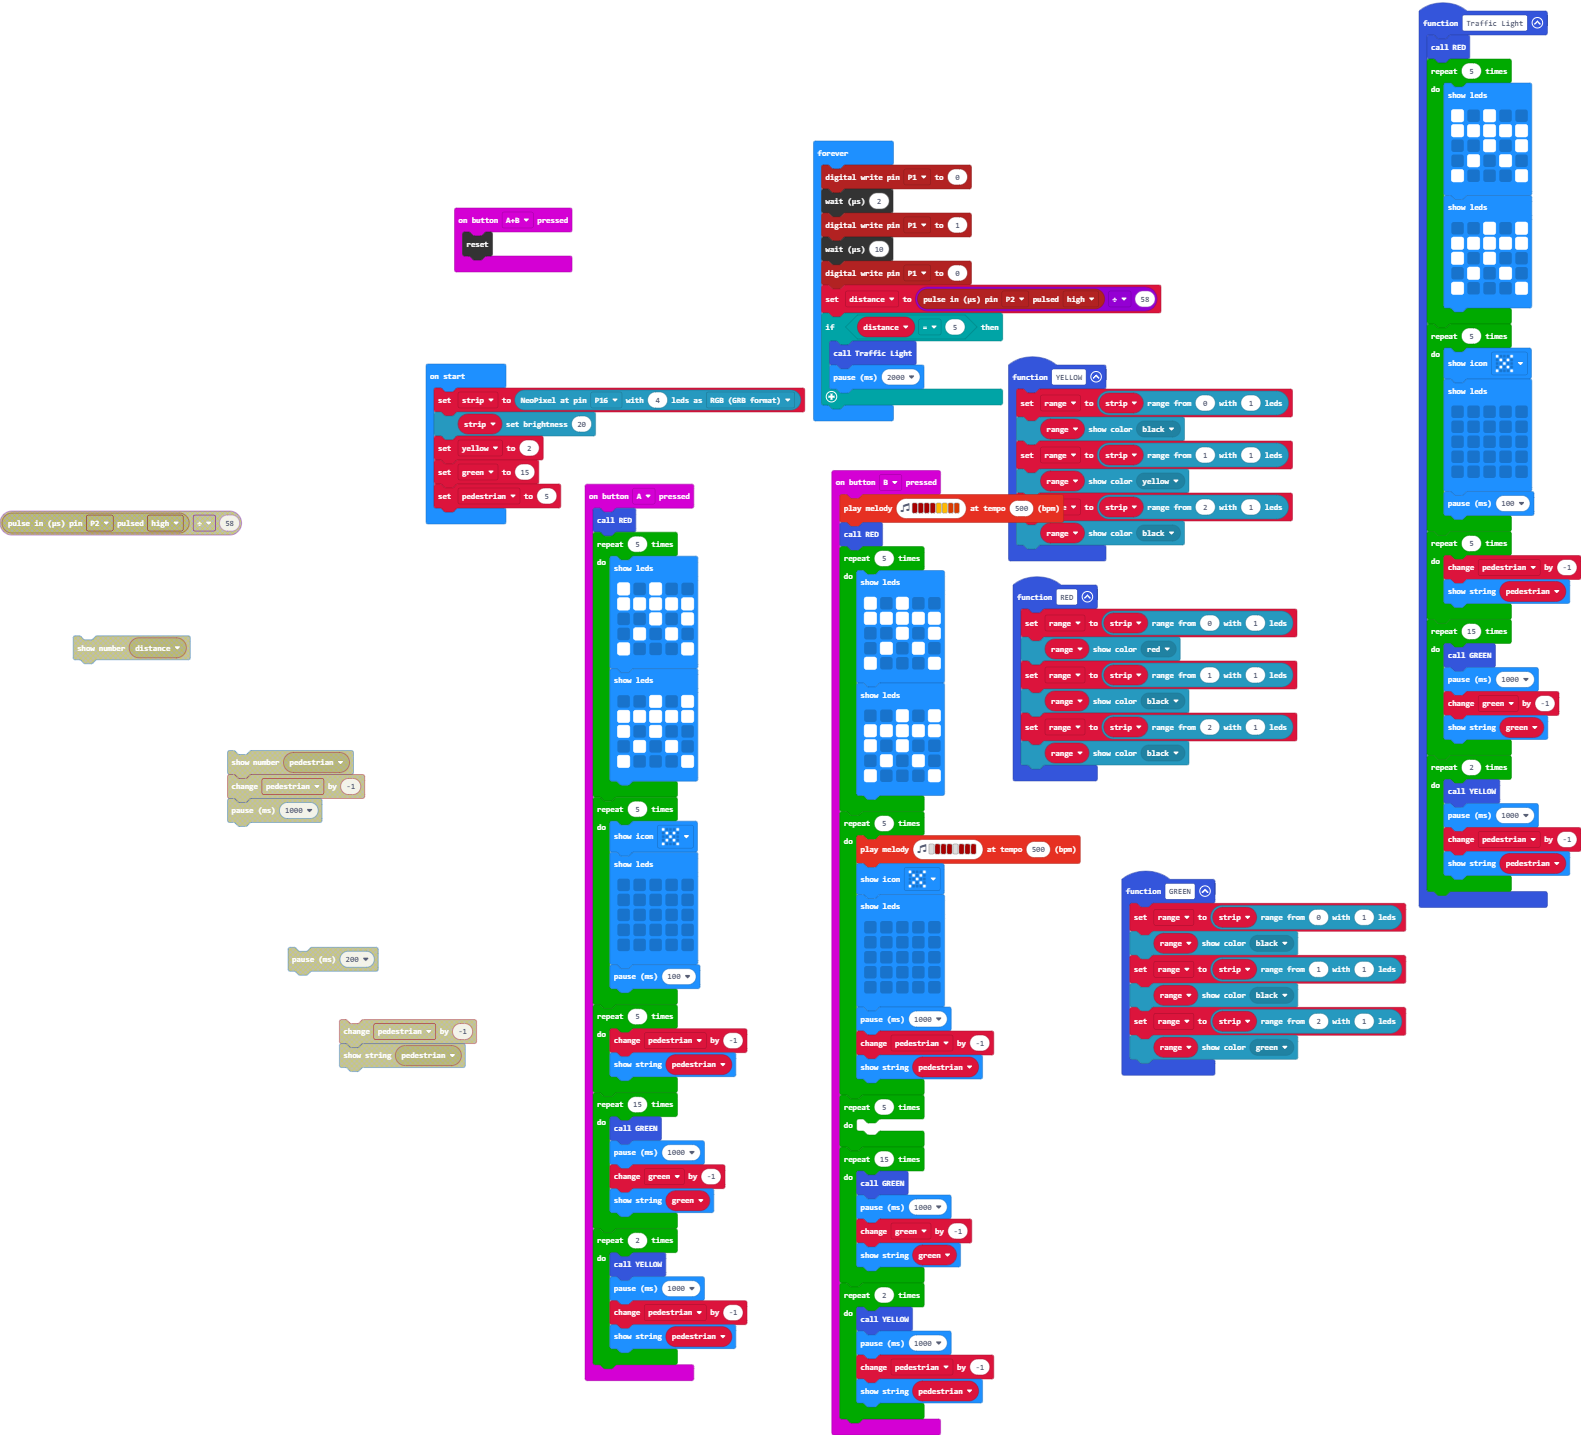
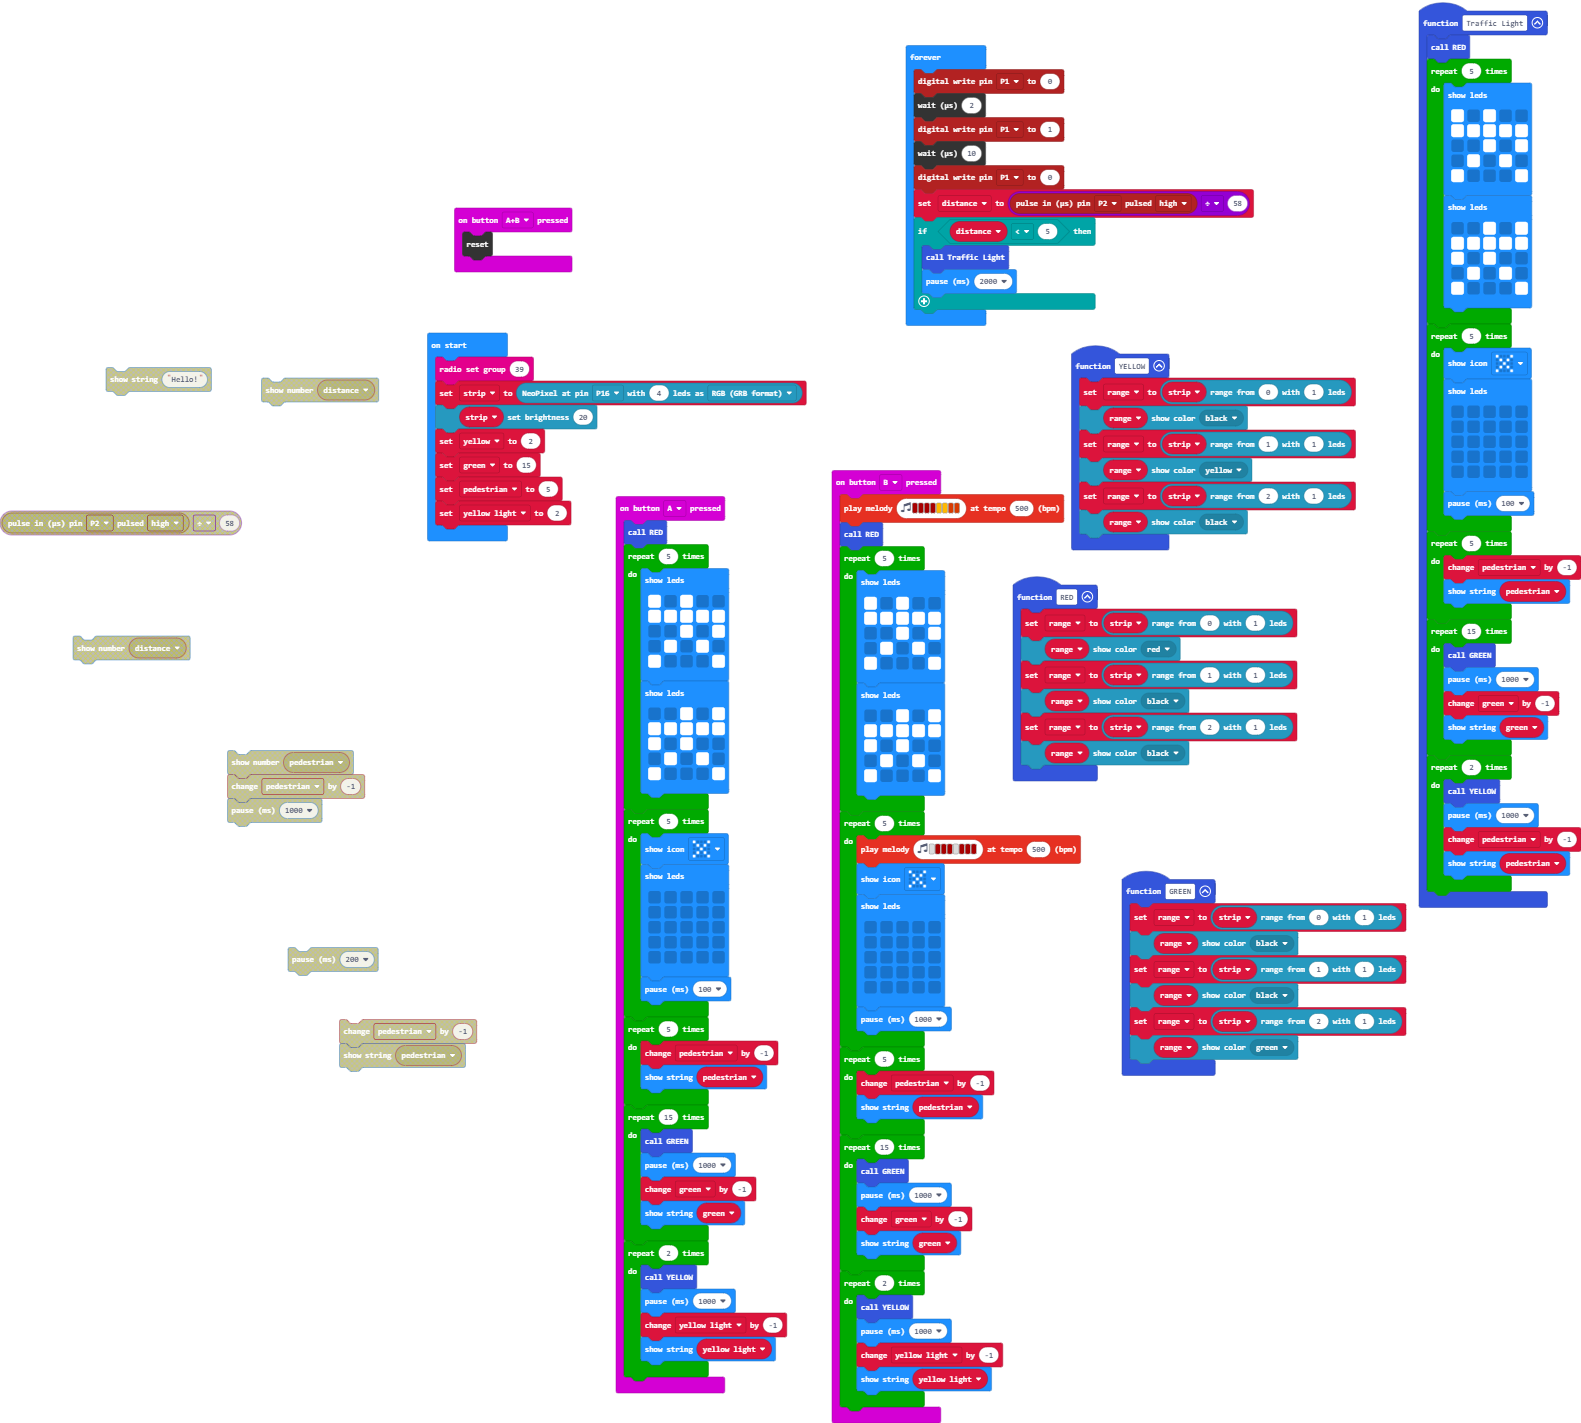
Update main.blocks, main.ts

diff --git a/main.ts b/main.ts
@@ -86,8 +86,8 @@ input.onButtonPressed(Button.A, function () {
     for (let index = 0; index < 2; index++) {
         YELLOW()
         basic.pause(1000)
-        pedestrian += -1
-        basic.showString("" + (pedestrian))
+        yellow_light += -1
+        basic.showString("" + (yellow_light))
     }
 })
 function RED () {
@@ -139,11 +139,10 @@ input.onButtonPressed(Button.B, function () {
             . . . . .
             `)
         basic.pause(1000)
-        pedestrian += -1
-        basic.showString("" + (pedestrian))
     }
     for (let index = 0; index < 5; index++) {
-    	
+        pedestrian += -1
+        basic.showString("" + (pedestrian))
     }
     for (let index = 0; index < 15; index++) {
         GREEN()
@@ -154,8 +153,8 @@ input.onButtonPressed(Button.B, function () {
     for (let index = 0; index < 2; index++) {
         YELLOW()
         basic.pause(1000)
-        pedestrian += -1
-        basic.showString("" + (pedestrian))
+        yellow_light += -1
+        basic.showString("" + (yellow_light))
     }
 })
 function YELLOW () {
@@ -168,14 +167,17 @@ function YELLOW () {
 }
 let distance = 0
 let range: neopixel.Strip = null
+let yellow_light = 0
 let pedestrian = 0
 let green = 0
 let strip: neopixel.Strip = null
+radio.setGroup(39)
 strip = neopixel.create(DigitalPin.P16, 4, NeoPixelMode.RGB)
 strip.setBrightness(20)
 let yellow = 2
 green = 15
 pedestrian = 5
+yellow_light = 2
 basic.forever(function () {
     pins.digitalWritePin(DigitalPin.P1, 0)
     control.waitMicros(2)
@@ -183,7 +185,7 @@ basic.forever(function () {
     control.waitMicros(10)
     pins.digitalWritePin(DigitalPin.P1, 0)
     distance = pins.pulseIn(DigitalPin.P2, PulseValue.High) / 58
-    if (distance == 5) {
+    if (distance < 5) {
         Traffic_Light()
         basic.pause(2000)
     }
